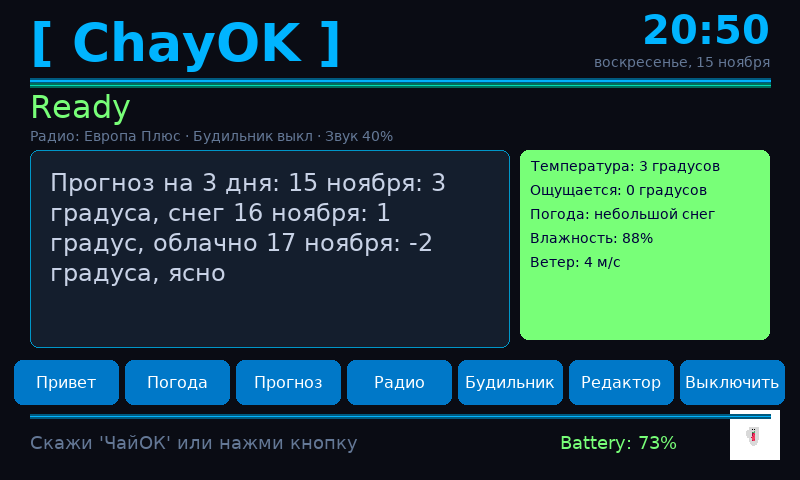
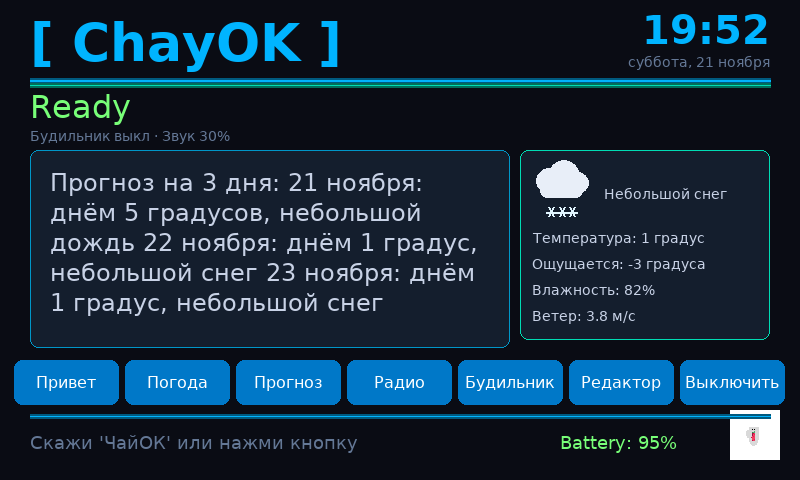
Иконки погоды, update.sh и свежие скриншоты

diff --git a/main.py b/main.py
@@ -6,6 +6,7 @@
 
 import datetime
 import json
+import math
 import os
 import queue
 import re
@@ -210,6 +211,97 @@ def draw_rounded_rect(surface, color, rect, radius=6, border_width=0, border_col
 def draw_glow_line(surface, color, start, end, width=2):
     pygame.draw.line(surface, (color[0] // 2, color[1] // 2, color[2] // 2), start, end, width + 4)
     pygame.draw.line(surface, color, start, end, width)
+
+
+# ========================================
+# ИКОНКИ ПОГОДЫ (векторно, без картинок)
+# ========================================
+
+ICON_SUN = (255, 205, 60)
+ICON_CLOUD = (232, 238, 248)
+ICON_CLOUD_DARK = (198, 210, 228)
+ICON_RAIN = (120, 195, 255)
+ICON_SNOW = (225, 245, 255)
+ICON_BOLT = (255, 210, 70)
+
+
+def weather_icon_kind(code):
+    code = int(code)
+    if code in (0, 1):
+        return "sun"
+    if code == 2:
+        return "partly"
+    if code == 3:
+        return "cloud"
+    if code in (45, 48):
+        return "fog"
+    if 51 <= code <= 67 or 80 <= code <= 82:
+        return "rain"
+    if 71 <= code <= 77 or code in (85, 86):
+        return "snow"
+    if code >= 95:
+        return "thunder"
+    return "cloud"
+
+
+def _icon_sun(surface, center, radius):
+    pygame.draw.circle(surface, ICON_SUN, center, radius)
+    for angle in range(0, 360, 45):
+        rad = math.radians(angle)
+        start = (center[0] + math.cos(rad) * (radius + 4), center[1] + math.sin(rad) * (radius + 4))
+        end = (center[0] + math.cos(rad) * (radius + 9), center[1] + math.sin(rad) * (radius + 9))
+        pygame.draw.line(surface, ICON_SUN, start, end, 2)
+
+
+def _icon_cloud(surface, x, y, width, color=ICON_CLOUD):
+    pygame.draw.circle(surface, color, (int(x + width * 0.30), int(y + width * 0.34)), int(width * 0.21))
+    pygame.draw.circle(surface, color, (int(x + width * 0.54), int(y + width * 0.25)), int(width * 0.26))
+    pygame.draw.circle(surface, color, (int(x + width * 0.76), int(y + width * 0.37)), int(width * 0.18))
+    pygame.draw.rect(surface, color,
+                     (int(x + width * 0.16), int(y + width * 0.35),
+                      int(width * 0.68), int(width * 0.26)),
+                     border_radius=int(width * 0.12))
+
+
+def draw_weather_icon(surface, kind, rect):
+    x, y, w, h = rect
+    if kind == "sun":
+        _icon_sun(surface, (x + w // 2, y + h // 2), max(4, int(w * 0.20)))
+    elif kind == "partly":
+        _icon_sun(surface, (x + int(w * 0.30), y + int(h * 0.28)), max(3, int(w * 0.12)))
+        _icon_cloud(surface, x + int(w * 0.18), y + int(h * 0.34), int(w * 0.78))
+    elif kind == "fog":
+        for index, dy in enumerate((0.30, 0.48, 0.66)):
+            width = int(w * (0.80 if index != 1 else 0.62))
+            pygame.draw.rect(surface, ICON_CLOUD, (x + 2, y + int(h * dy), width, 5), border_radius=3)
+    elif kind == "rain":
+        _icon_cloud(surface, x, y, w)
+        for index in range(3):
+            sx = x + int(w * (0.36 + index * 0.14))
+            pygame.draw.line(surface, ICON_RAIN, (sx, y + int(h * 0.70)),
+                             (sx - 4, y + int(h * 0.90)), 3)
+    elif kind == "snow":
+        _icon_cloud(surface, x, y, w)
+        for index in range(3):
+            cx = x + int(w * (0.34 + index * 0.16))
+            cy = y + int(h * 0.82)
+            for angle in (0, 60, 120):
+                rad = math.radians(angle)
+                dx, dy = math.cos(rad) * 5, math.sin(rad) * 5
+                pygame.draw.line(surface, ICON_SNOW, (cx - dx, cy - dy), (cx + dx, cy + dy), 2)
+    elif kind == "thunder":
+        _icon_cloud(surface, x, y, int(w * 0.9), ICON_CLOUD_DARK)
+        bolt = [
+            (x + int(w * 0.52), y + int(h * 0.52)),
+            (x + int(w * 0.38), y + int(h * 0.80)),
+            (x + int(w * 0.49), y + int(h * 0.80)),
+            (x + int(w * 0.42), y + int(h * 0.99)),
+            (x + int(w * 0.64), y + int(h * 0.68)),
+            (x + int(w * 0.52), y + int(h * 0.68)),
+        ]
+        pygame.draw.polygon(surface, ICON_BOLT, bolt)
+    else:
+        _icon_cloud(surface, x, y, w)
 
 
 def commands_path():
@@ -424,6 +516,7 @@ def get_weather_now():
         feels = round(current["apparent_temperature"])
         wind = round(current["wind_speed_10m"] / 3.6, 1)  # км/ч → м/с
         return {
+            "_code": current["weather_code"],
             "Температура": f"{temperature} {_plural(temperature, 'градус', 'градуса', 'градусов')}",
             "Ощущается": f"{feels} {_plural(feels, 'градус', 'градуса', 'градусов')}",
             "Погода": weather_desc(current["weather_code"]),
@@ -1338,11 +1431,24 @@ class ChayOKUI:
 
         if self.weather_data and "Ошибка" not in self.weather_data:
             wx, wy = SCREEN_WIDTH - 280, 150
-            draw_rounded_rect(screen, COLORS["salad"], (wx, wy, 250, 190), radius=8)
-            y_offset = wy + 8
-            for k, v in list(self.weather_data.items())[:7]:
-                screen.blit(font_tiny.render(f"{k}: {v}", True, (0, 0, 60)), (wx + 10, y_offset))
-                y_offset += 24
+            panel = pygame.Rect(wx, wy, 250, 190)
+            draw_rounded_rect(screen, COLORS["card_bg"], panel, radius=8)
+            pygame.draw.rect(screen, COLORS["secondary"], panel, 1, border_radius=8)
+
+            icon_kind = weather_icon_kind(self.weather_data.get("_code", 3))
+            draw_weather_icon(screen, icon_kind, pygame.Rect(wx + 10, wy + 10, 64, 64))
+
+            header = font_tiny.render(str(self.weather_data.get("Погода", "")).capitalize(),
+                                      True, COLORS["text"])
+            screen.blit(header, (wx + 84, wy + 36))
+
+            y_offset = wy + 80
+            rows = [(k, v) for k, v in self.weather_data.items()
+                    if not k.startswith("_") and k != "Погода"]
+            for key, value in rows[:4]:
+                screen.blit(font_tiny.render(f"{key}: {value}", True, COLORS["text"]),
+                            (wx + 12, y_offset))
+                y_offset += 26
 
         draw_glow_line(screen, COLORS["primary"], (30, 416), (SCREEN_WIDTH - 30, 416), 1)
         if self.subtext:

diff --git a/README.md b/README.md
@@ -45,6 +45,7 @@
 | `notifier.py` | письма через SMTP |
 | `watchdog.py` | слежение за `llama-server` |
 | `start_all.sh` | запуск приложения и модели |
+| `update.sh` | обновление из репозитория и перезапуск |
 | `restart_llm.sh` | подъём `llama-server` |
 | `chayok.service`, `install_service.sh` | автозапуск через systemd |
 
@@ -85,6 +86,16 @@ sudo ./install_service.sh  # автозапуск через systemd
 ```
 
 Проверка почты: `venv/bin/python notifier.py`.
+
+## Обновление
+
+```bash
+bash update.sh
+```
+
+Скрипт забирает свежий `main` из репозитория, обновляет зависимости и перезапускает
+приложение (через systemd, если служба активна, иначе вручную). Локальные настройки
+и модели не затрагиваются — они в `.gitignore`.
 
 ## Голосовые команды
 
